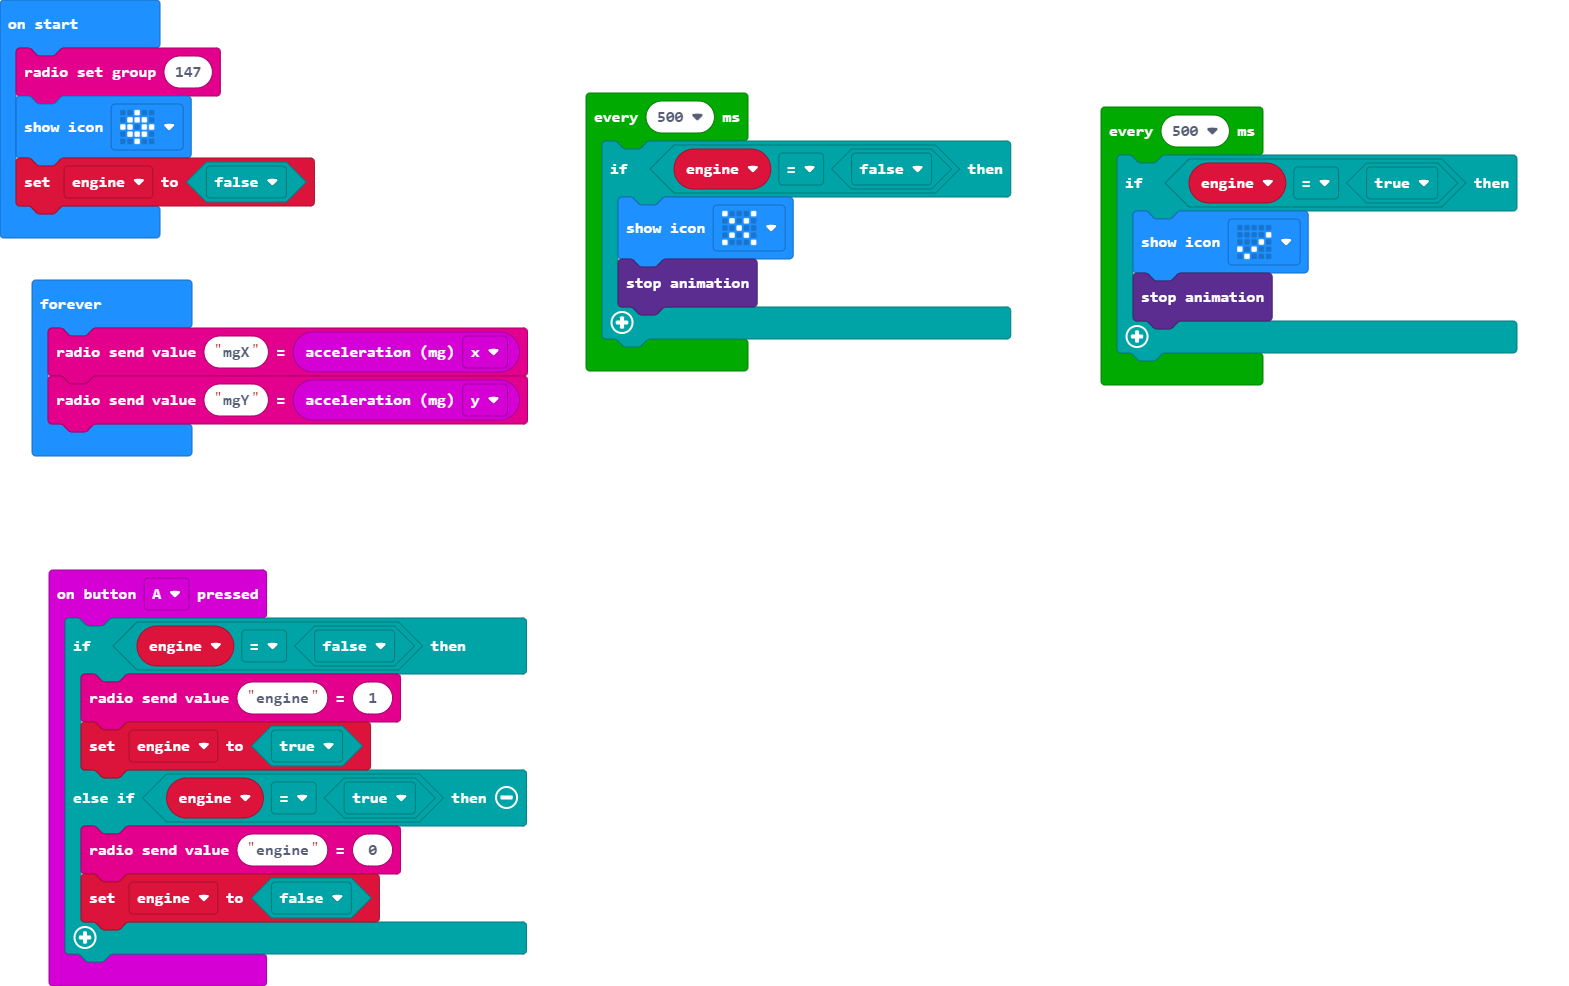
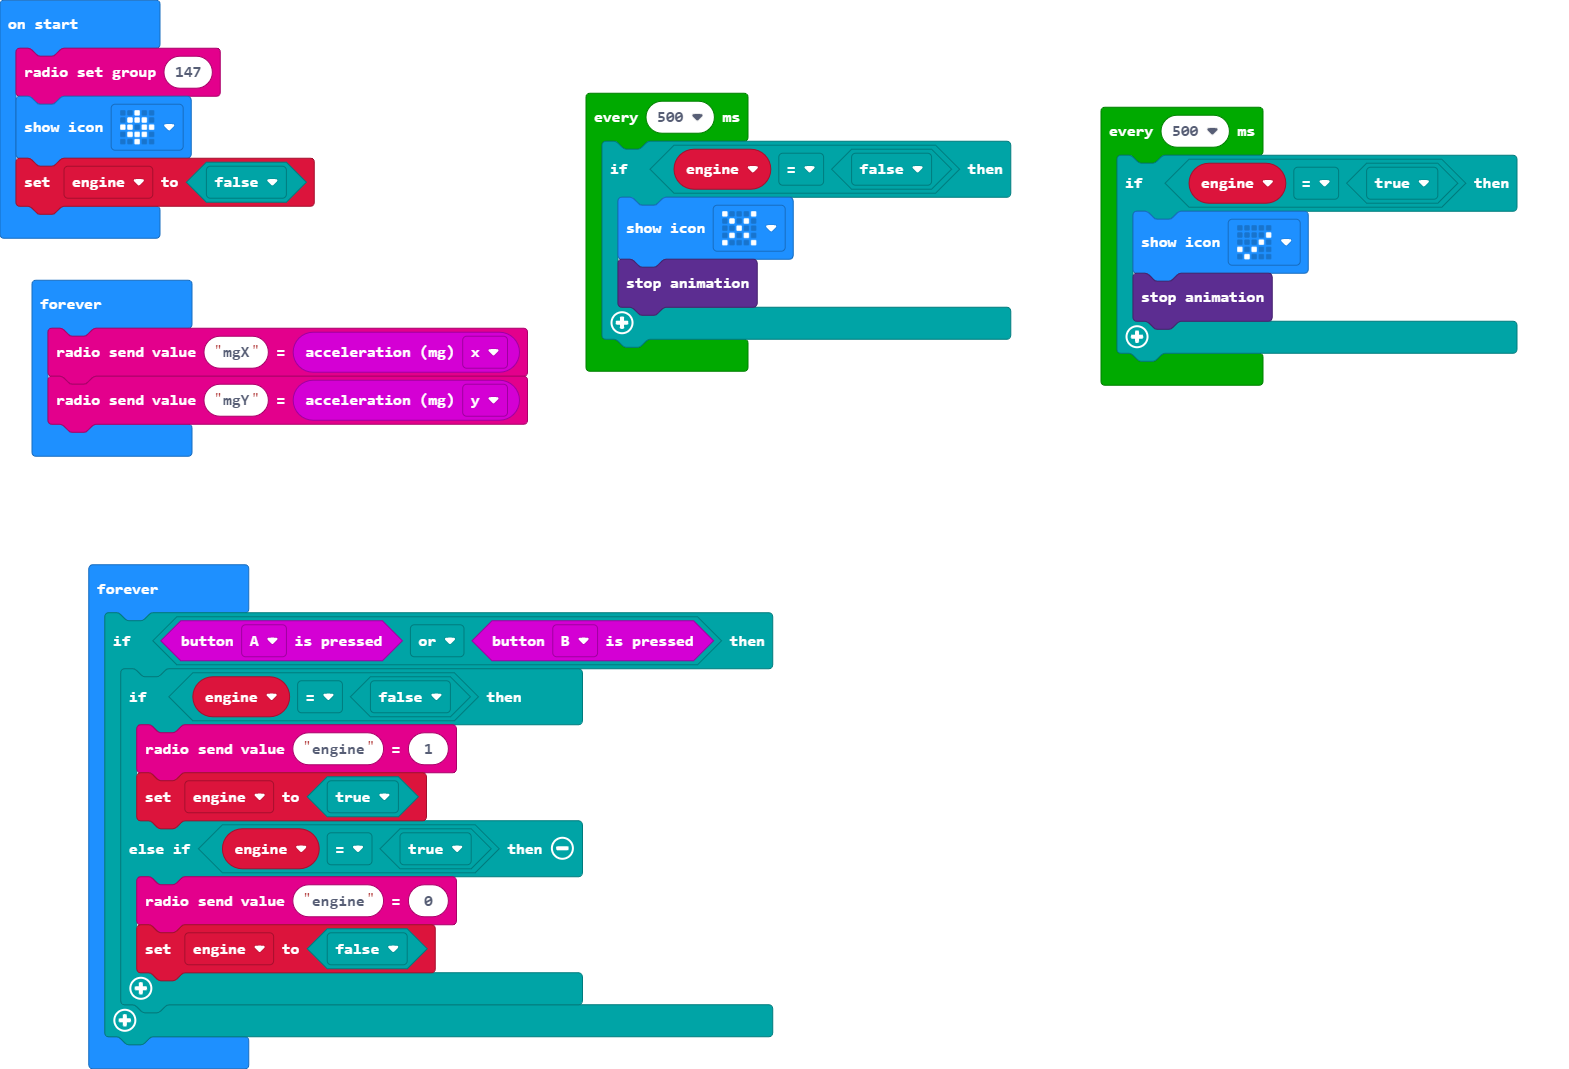
Update main.blocks, main.ts

diff --git a/main.ts b/main.ts
@@ -1,16 +1,6 @@
-input.onButtonPressed(Button.A, function () {
-    if (engine == false) {
-        radio.sendValue("engine", 1)
-        engine = true
-    } else if (engine == true) {
-        radio.sendValue("engine", 0)
-        engine = false
-    }
-})
-let engine = false
 radio.setGroup(147)
 basic.showIcon(IconNames.Target)
-engine = false
+let engine = false
 loops.everyInterval(500, function () {
     if (engine == false) {
         basic.showIcon(IconNames.No)
@@ -26,4 +16,15 @@ loops.everyInterval(500, function () {
 basic.forever(function () {
     radio.sendValue("mgX", input.acceleration(Dimension.X))
     radio.sendValue("mgY", input.acceleration(Dimension.Y))
+})
+basic.forever(function () {
+    if (input.buttonIsPressed(Button.A) || input.buttonIsPressed(Button.B)) {
+        if (engine == false) {
+            radio.sendValue("engine", 1)
+            engine = true
+        } else if (engine == true) {
+            radio.sendValue("engine", 0)
+            engine = false
+        }
+    }
 })
